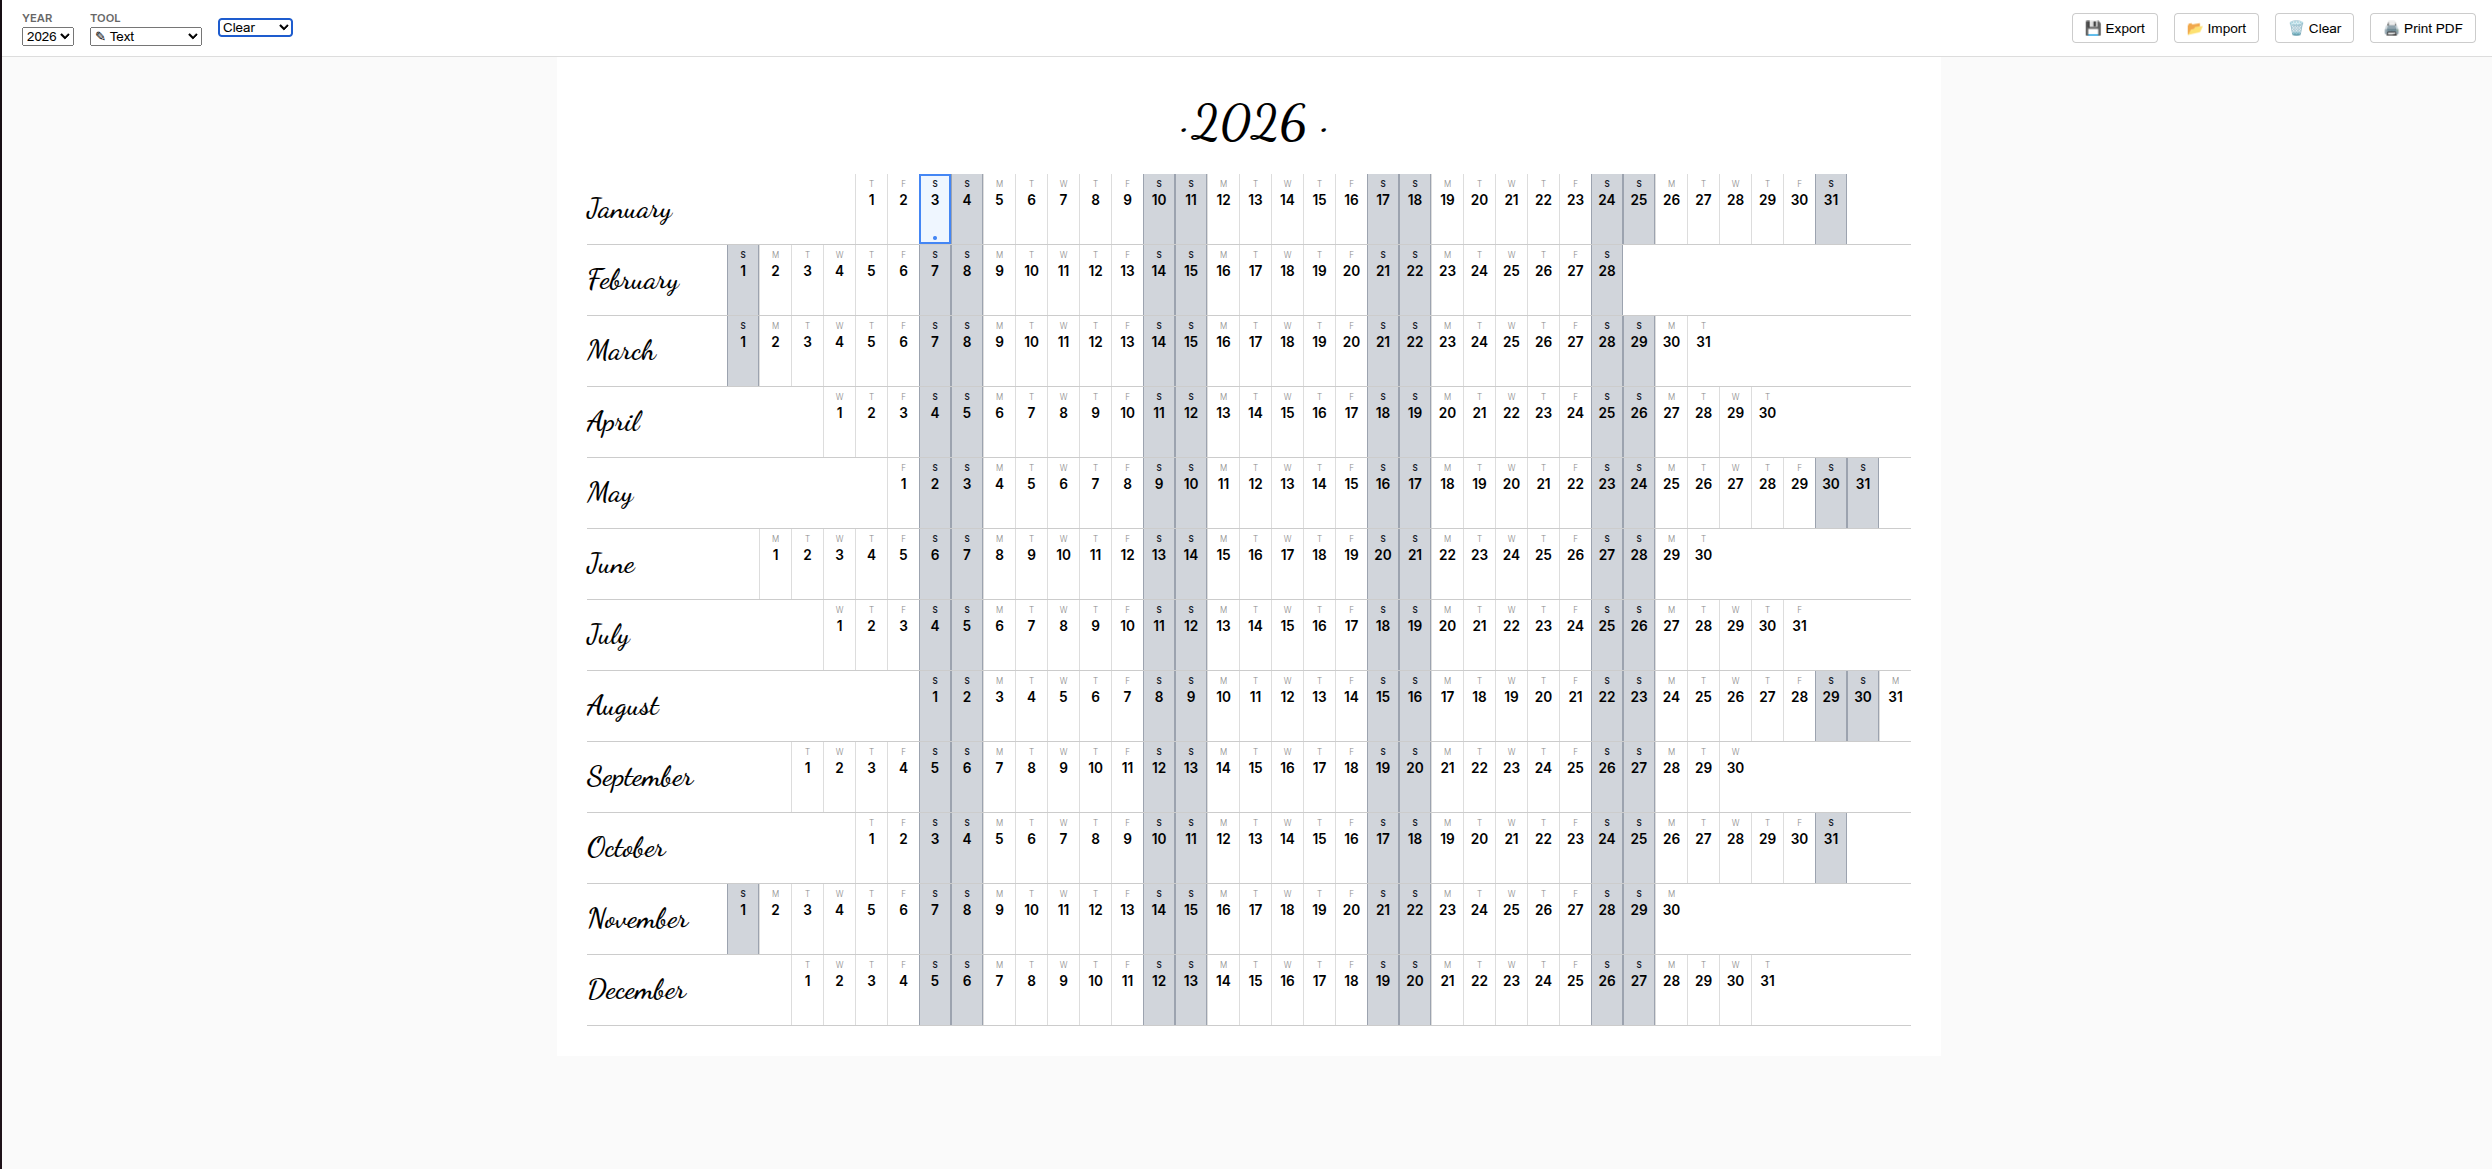
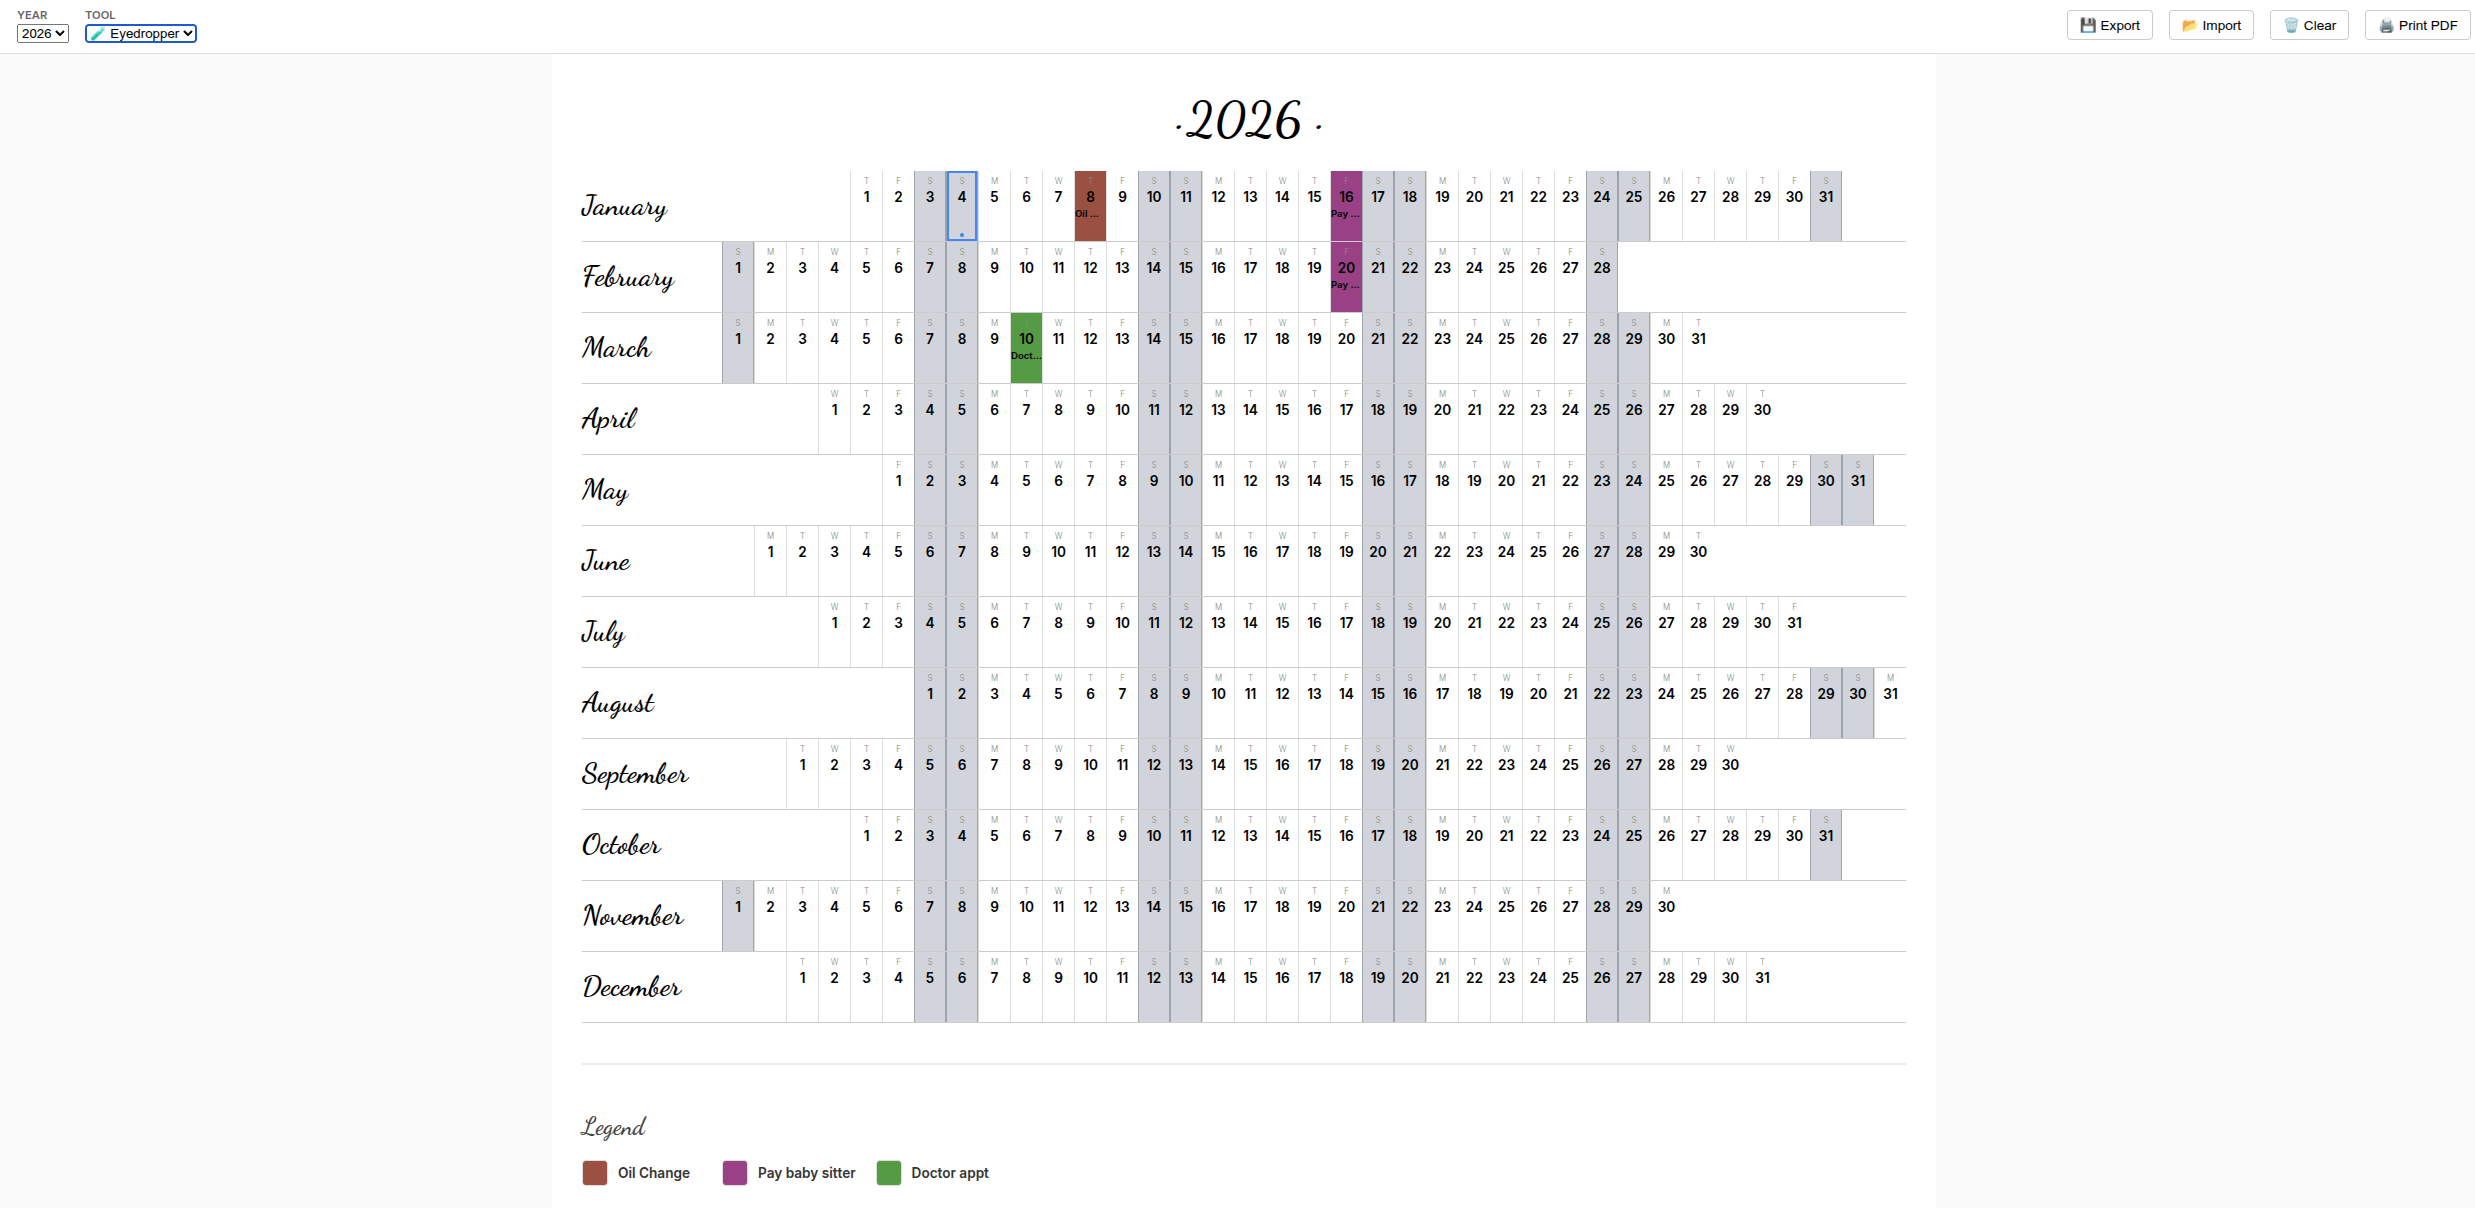
updating README verbage and new graphic

diff --git a/README.md b/README.md
@@ -33,7 +33,7 @@ docker run -d \
   --name linear-calendar \
   -p 3000:80 \
   --restart always \
-  YOUR_DOCKER_USERNAME/linear-calendar:latest
+  ldhagen/linear-calendar:latest
 
 ```
 
@@ -43,7 +43,7 @@ docker run -d \
 version: '3.8'
 services:
   calendar:
-    image: YOUR_DOCKER_USERNAME/linear-calendar:latest
+    image: ldhagen/linear-calendar:latest
     container_name: linear-calendar
     ports:
       - "3000:80"
